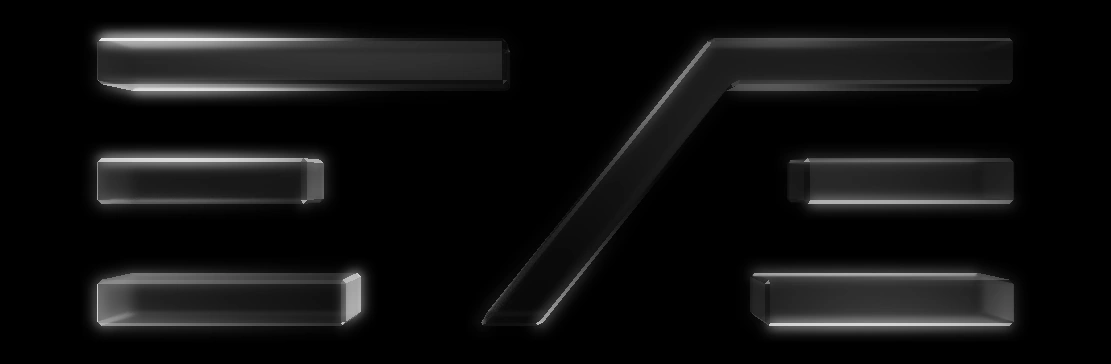
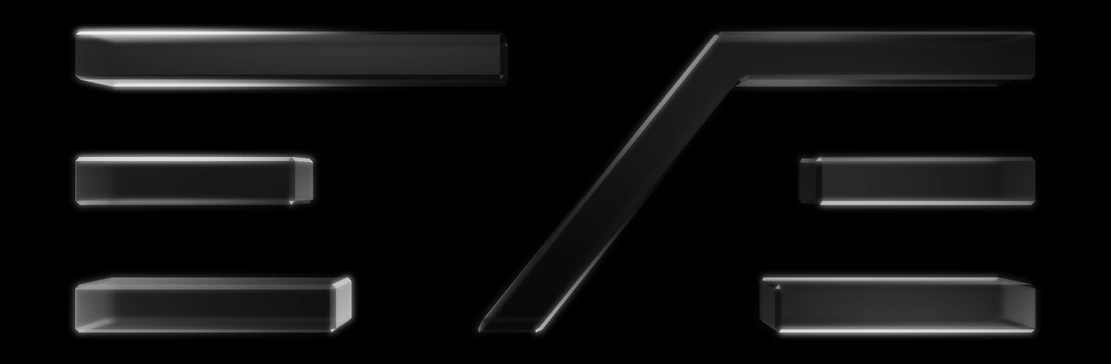
Match eve fallback bake to desktop DPR

diff --git a/apps/docs/scripts/render-eve-5.ts b/apps/docs/scripts/render-eve-5.ts
@@ -8,8 +8,8 @@
 //     -e VK_ICD_FILENAMES=/usr/share/vulkan/icd.d/lvp_icd.json \
 //     -e LIBGL_ALWAYS_SOFTWARE=1 \
 //     -e EVE_LOGO_RENDER_THEME=dark \
-//     -e EVE_LOGO_RENDER_WIDTH=1111 \
-//     -e EVE_LOGO_RENDER_HEIGHT=364 \
+//     -e EVE_LOGO_RENDER_WIDTH=2222 \
+//     -e EVE_LOGO_RENDER_HEIGHT=728 \
 //     browser-webgpu-lab:native-vgpu-node \
 //     bash -lc 'xvfb-run -a bash -lc "NODE_OPTIONS=--loader=./scripts/wgsl-node-loader.mjs ./node_modules/.bin/tsx scripts/render-eve-5.ts"'
 //
@@ -17,7 +17,9 @@
 // Convert the generated tmp/eve-5-renders/<run>/output.png to the desired
 // public/eve-5/fallback-<theme>.webp with ImageMagick from the same container.
 // Set EVE_LOGO_RENDER_THEME=light|dark and EVE_LOGO_RENDER_WIDTH/HEIGHT when
-// baking production fallbacks.
+// baking production fallbacks. For a 1111x364 CSS canvas on DPR 2 screens,
+// render at 2222x728 and downsample the WebP to 1111x364 so the fixed 16px
+// bloom padding matches the live canvas in CSS pixels.
 
 import { createHash } from "node:crypto";
 import { readFile, mkdir, writeFile } from "node:fs/promises";
